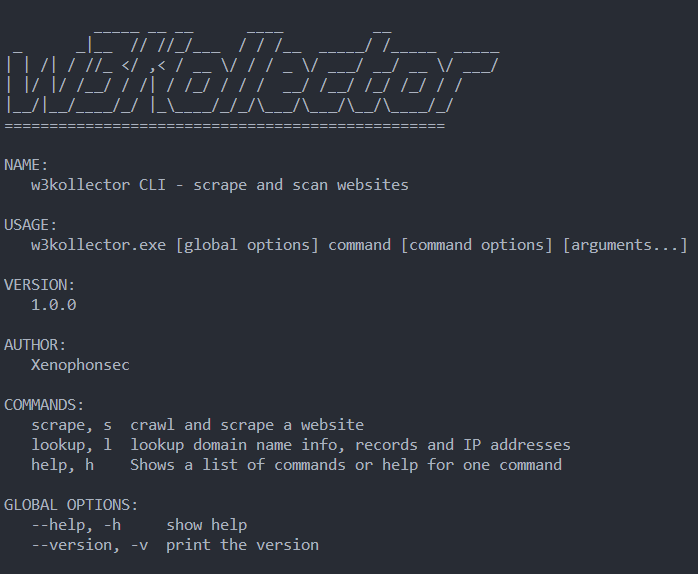
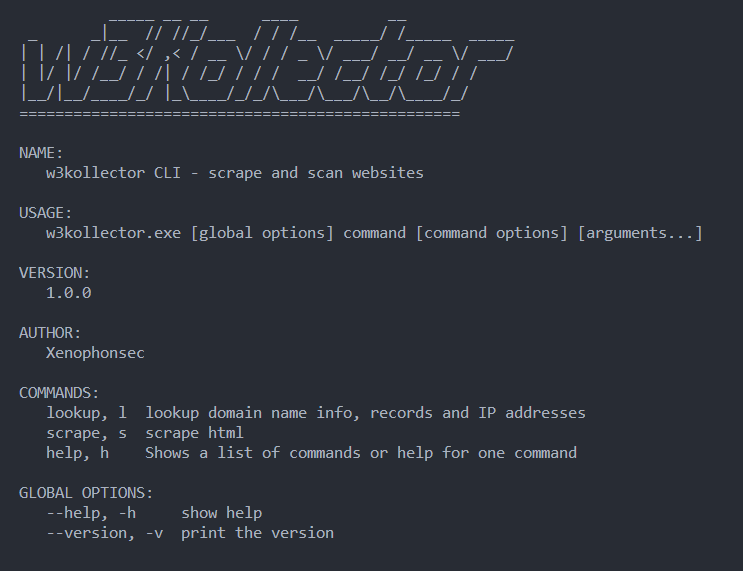
updated readme

diff --git a/README.md b/README.md
@@ -30,18 +30,20 @@ The lookup command fetches
 ```
 w3kollector lookup microsoft.com
 ```
-![w3Kollector use](./_images/w3kollector_lookup.png)
+![w3Kollector lookup](./_images/w3kollector_lookup.png)
 
 ### Scrape
 
 The scraper crawls websites and gathers contact info, meta data and various files. It refrains from following links outside of the target domain (but it will scan subdomains).
+
+![w3Kollector scrape help](./_images/w3kollector_scrape_help.png)
 
 You can scrape a whole website with `scrape crawl` or a single page with the `scrape page` command.
 
 ```
 w3kollector scrape crawl microsoft.com
 ```
-![w3Kollector use](./_images/w3kollector_scrape.png)
+![w3Kollector scrape](./_images/w3kollector_scrape.png)
 
 It collects
 - Email Addresses
